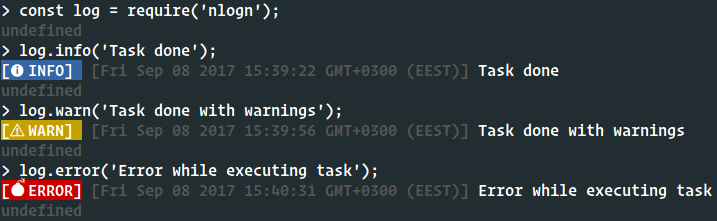
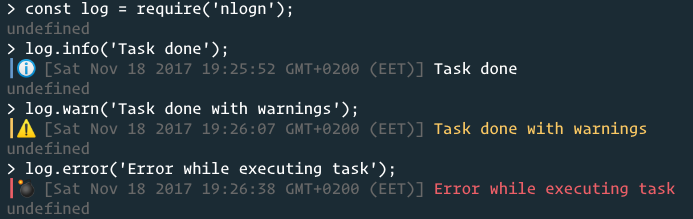
:lipstick: tweak log display

diff --git a/index.js b/index.js
@@ -9,13 +9,13 @@ module.exports = {
 /////////////////////////////////////////////////////////////
 
 function info(s) {
-  console.info(chalk.bgBlue('[ℹ INFO] '), chalk.gray(`[${new Date()}]`), s);
+  console.info(chalk.blue('┃ℹ '), chalk.gray(`[${new Date()}]`), s);
 }
 
 function warn(s) {
-  console.warn(chalk.bgYellow('[⚠ WARN] '), chalk.gray(`[${new Date()}]`), s);
+  console.warn(chalk.yellow('┃⚠ '), chalk.gray(`[${new Date()}]`), chalk.yellow(s));
 }
 
 function error(s) {
-  console.error(chalk.bgRed('[💣 ERROR]'), chalk.gray(`[${new Date()}]`), s);
+  console.error(chalk.red('┃💣 '), chalk.gray(`[${new Date()}]`), chalk.red(s));
 }
